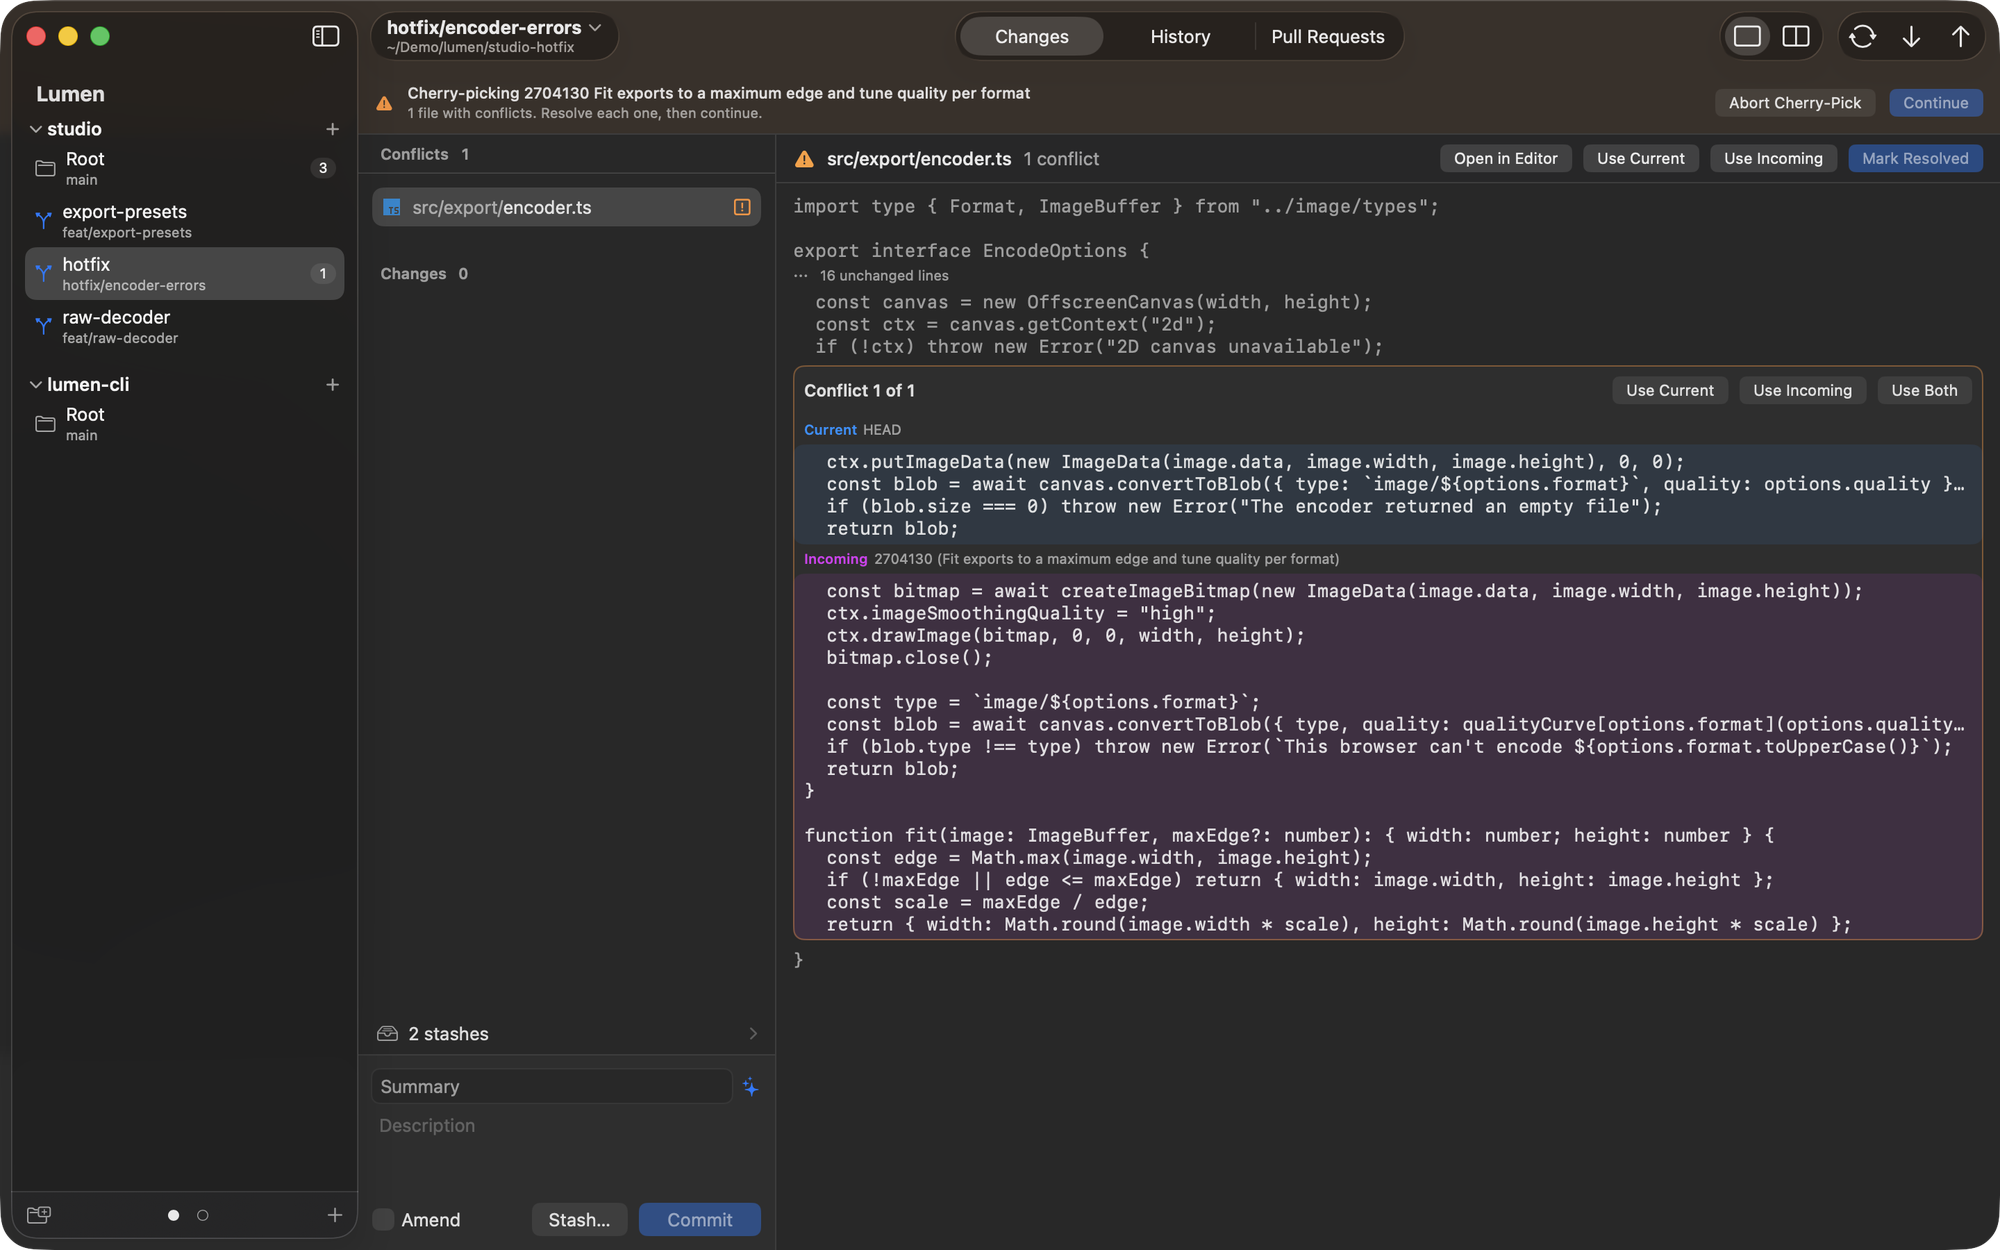
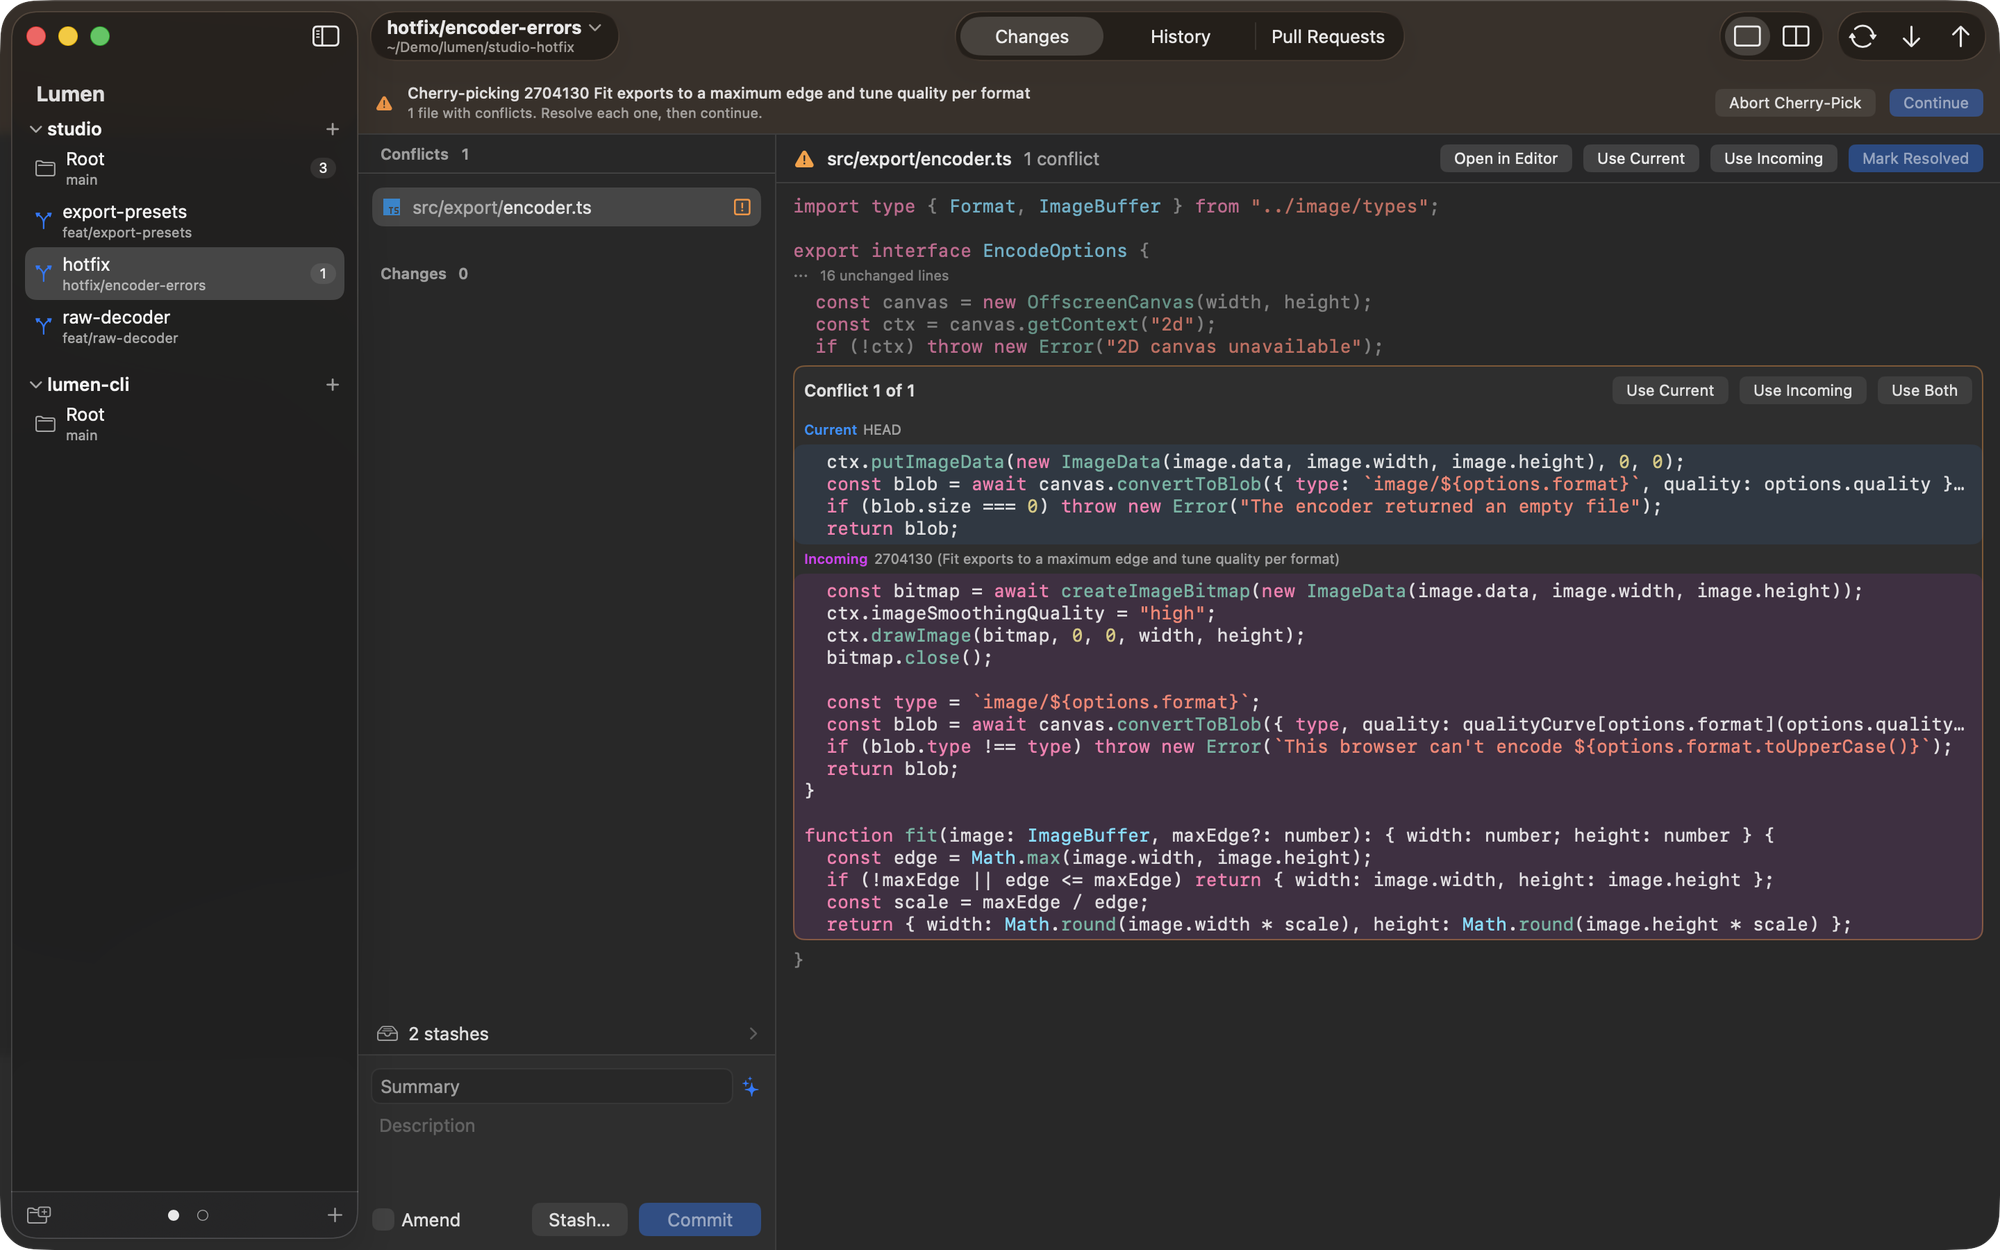
Conflict resolver: syntax highlighting for both sides and the surrounding code

diff --git a/Sources/Loupe/Conflicts.swift b/Sources/Loupe/Conflicts.swift
@@ -129,6 +129,7 @@ struct ConflictPane: View {
     var path: String
     @State private var text: ConflictText?
     @State private var unreadable = false
+    @State private var colors: [Int: [[AttributedString]]] = [:]   // segment → highlighted lines (text) or [current, incoming]
 
     private var url: URL { URL(fileURLWithPath: model.path).appendingPathComponent(path) }
 
@@ -139,12 +140,12 @@ struct ConflictPane: View {
             if let text, text.conflictCount > 0 {
                 ScrollView {
                     LazyVStack(alignment: .leading, spacing: 0) {
-                        ForEach(Array(text.numbered.enumerated()), id: \.offset) { _, item in
+                        ForEach(Array(text.numbered.enumerated()), id: \.offset) { i, item in
                             switch item.segment {
-                            case .text(let lines): ContextLines(lines: lines)
+                            case .text(let lines): ContextLines(lines: lines, colored: colors[i]?.first)
                             case .conflict(let c):
                                 let k = item.conflict
-                                ConflictCard(conflict: c, index: k, total: text.conflictCount) { lines in write(text.resolving(k, with: lines)) }
+                                ConflictCard(conflict: c, index: k, total: text.conflictCount, colored: colors[i]) { lines in write(text.resolving(k, with: lines)) }
                                     .padding(.vertical, 6)
                             }
                         }
@@ -191,7 +192,27 @@ struct ConflictPane: View {
     private func load() {
         guard let data = try? Data(contentsOf: url), let s = String(data: data, encoding: .utf8) else { unreadable = true; text = nil; return }
         unreadable = false
-        text = ConflictText(s)
+        let t = ConflictText(s)
+        text = t
+        highlight(t)
+    }
+
+    /// Colours arrive a beat after the text, off the main thread, like the diff's.
+    private func highlight(_ t: ConflictText) {
+        let path = path
+        let chunks: [[[String]]] = t.segments.map { seg in
+            switch seg {
+            case .text(let l): [l.map(String.init)]
+            case .conflict(let c): [c.current.map(String.init), c.incoming.map(String.init)]
+            }
+        }
+        Task {
+            let result = await Task.detached(priority: .userInitiated) {
+                chunks.map { $0.map { BlameView.highlight($0, path: path) } }
+            }.value
+            guard text?.segments.count == result.count else { return }
+            colors = Dictionary(uniqueKeysWithValues: result.enumerated().map { ($0.offset, $0.element) })
+        }
     }
 
     private func write(_ s: String) {
@@ -199,6 +220,8 @@ struct ConflictPane: View {
             try Data(s.utf8).write(to: url, options: .atomic)
             let t = ConflictText(s)
             text = t
+            colors = [:]
+            highlight(t)
             if t.conflictCount == 0 { Task { await model.resolve(path, take: nil) } }
         } catch { model.error = error.localizedDescription }
     }
@@ -207,35 +230,47 @@ struct ConflictPane: View {
 /// Unchanged text between conflicts; long runs fold to their first and last lines.
 private struct ContextLines: View {
     var lines: [Substring]
+    var colored: [AttributedString]?
     @State private var expanded = false
 
     var body: some View {
         let fold = lines.count > 10 && !expanded
+        let shown = fold ? Array(lines.indices.prefix(3)) : Array(lines.indices)
         VStack(alignment: .leading, spacing: 0) {
-            ForEach(Array((fold ? Array(lines.prefix(3)) : lines).enumerated()), id: \.offset) { _, l in CodeLine(text: l) }
+            ForEach(shown, id: \.self) { i in CodeLine(text: lines[i], colored: colored?[safe: i]) }
             if fold {
                 Button { expanded = true } label: {
                     Label("\(lines.count - 6) unchanged lines", systemImage: "ellipsis").font(.caption).foregroundStyle(.secondary)
                 }
                 .buttonStyle(.plain).padding(.vertical, 4)
-                ForEach(Array(lines.suffix(3).enumerated()), id: \.offset) { _, l in CodeLine(text: l) }
+                ForEach(Array(lines.indices.suffix(3)), id: \.self) { i in CodeLine(text: lines[i], colored: colored?[safe: i]) }
             }
         }
         .foregroundStyle(.secondary)
+        .opacity(0.75)   // the file around the conflicts: there for orientation, quieter than the sides
     }
 }
 
 private struct CodeLine: View {
     var text: Substring
+    var colored: AttributedString? = nil
     var body: some View {
-        Text(text.isEmpty ? " " : String(text)).font(.system(.body, design: .monospaced)).lineLimit(1).textSelection(.enabled)
+        Group {
+            if text.isEmpty { Text(" ") } else if let colored { Text(colored) } else { Text(String(text)) }
+        }
+        .font(.system(.body, design: .monospaced)).lineLimit(1).textSelection(.enabled)
     }
+}
+
+extension Array {
+    subscript(safe i: Int) -> Element? { indices.contains(i) ? self[i] : nil }
 }
 
 private struct ConflictCard: View {
     var conflict: ConflictText.Conflict
     var index: Int
     var total: Int
+    var colored: [[AttributedString]]?   // [current, incoming]
     var resolve: ([Substring]) -> Void
 
     var body: some View {
@@ -249,14 +284,14 @@ private struct ConflictCard: View {
             }
             .controlSize(.small)
             .padding(8)
-            side("Current", conflict.currentLabel, conflict.current, .blue)
-            side("Incoming", conflict.incomingLabel, conflict.incoming, .purple)
+            side("Current", conflict.currentLabel, conflict.current, colored?[safe: 0], .blue)
+            side("Incoming", conflict.incomingLabel, conflict.incoming, colored?[safe: 1], .purple)
         }
         .background(.background.secondary, in: RoundedRectangle(cornerRadius: 8))
         .overlay(RoundedRectangle(cornerRadius: 8).strokeBorder(.orange.opacity(0.4)))
     }
 
-    private func side(_ title: String, _ label: String, _ lines: [Substring], _ tint: Color) -> some View {
+    private func side(_ title: String, _ label: String, _ lines: [Substring], _ colored: [AttributedString]?, _ tint: Color) -> some View {
         VStack(alignment: .leading, spacing: 0) {
             HStack(spacing: 4) {
                 Text(title).font(.caption.weight(.semibold)).foregroundStyle(tint)
@@ -265,7 +300,7 @@ private struct ConflictCard: View {
             .padding(.horizontal, 8).padding(.vertical, 4)
             VStack(alignment: .leading, spacing: 0) {
                 if lines.isEmpty { Text("(nothing)").font(.caption).foregroundStyle(.tertiary).padding(.vertical, 2) }
-                ForEach(Array(lines.enumerated()), id: \.offset) { _, l in CodeLine(text: l) }
+                ForEach(lines.indices, id: \.self) { i in CodeLine(text: lines[i], colored: colored?[safe: i]) }
             }
             .padding(.horizontal, 8).padding(.vertical, 4)
             .frame(maxWidth: .infinity, alignment: .leading)
